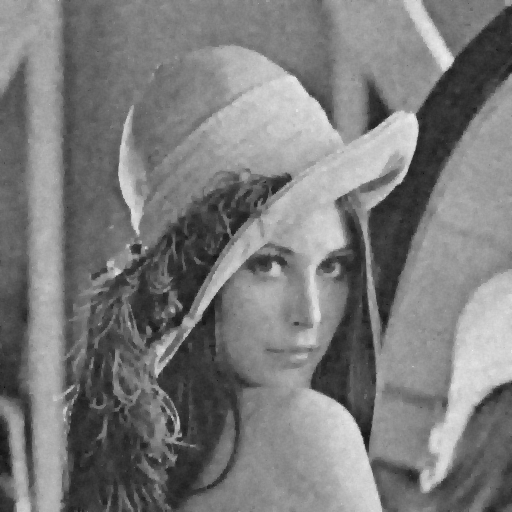
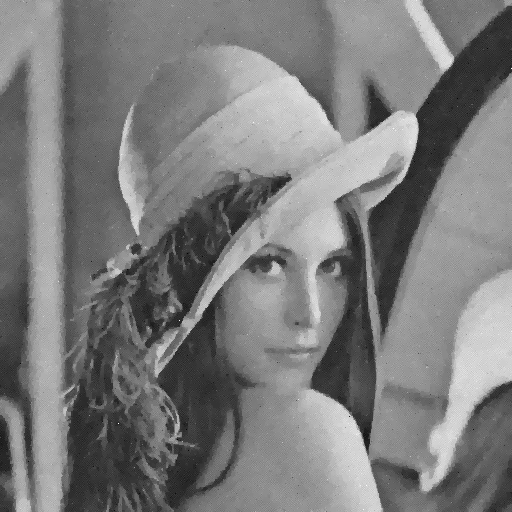
Fixed typos. Added Test images. Added parameters.

diff --git a/Net_Primal_Dual.html b/Net_Primal_Dual.html
@@ -212,7 +212,7 @@ MathJax.Hub.Config({
 
 
                 <h2 class="section-heading">Let's start by learning a simple linear operator</h2>
-                <p>In the previous general model, if we pose \( H = \lambda I_n \), \( b = -2 img_{obs}\) and
+                <p>In the previous general model, if we pose \( H = I_n \), \( b = -2 img_{obs}\) and
                     \(L : x \mapsto \sum_{(i, j) \in \mathcal{E}} \|x_i -x_j \|_1\), we can get back to the usual ROF model, as formulated in the Chambolle Pock paper:
                     $$
                     \begin{align}
@@ -221,8 +221,8 @@ MathJax.Hub.Config({
                     $$
 
 
-                    Since this model has been studied in the previous blog post, we are going to introduce the linear operator \(L : x ; w \mapsto \sum_{(i, j) \in \mathcal{E}} w_{i,j} \|x_i -x_j \|_1\).
-                    A calculation shows that \(L\) is a linear operator, and that its adjoint \(L^T\) is \(L^T = W \odot div \), \(\odot \) being the Hadamard product here.
+                    Since this model has been studied in the previous blog post, we are going to introduce the linear operator \(L : x ; w \mapsto \sum_{(i, j) \in \mathcal{E}} w_{i,j} \|x_i -x_j \|_1\), i.e \(L = W \odot \nabla\), \(\odot \) being the Hadamard product here.
+                    A calculation shows that \(L\) is a linear operator, and that its adjoint \(L^T\) is \( L^T : y \mapsto  - div(W \odot y) \).
 
                     Here are the noised, denoised and original images.
                     In this first new scenario, we are going to minimize the Mean Squared Error between the Ground Truth and the primal variable after \( n\) iterations of the primal dual algorithm:
@@ -234,7 +234,8 @@ MathJax.Hub.Config({
                     \end{align}
                     $$
 
-                     Each function was optimized for 80 steps and the trained optimizers were unrolled for 10 steps
+                     Each function was optimized for 80 steps and the trained optimizers were unrolled for 15 steps, with the following set of parameters: \(\sigma_n = 0.1, max_{it} = 15, max_{epochs}=80, \lambda_{ROF}=7.0, \theta = 0.75, \tau = 0.01 \)
+                </p>
                     <a href="#">
                         <img class="img-responsive" src="img/lena_noised.png" alt="">
                     </a>
@@ -247,10 +248,24 @@ MathJax.Hub.Config({
                         <img class="img-responsive" src="img/image_Lena512.png" alt="">
                     </a>
 
-                </p>
+                <p>If we now use the trained network on a test image, which has the same amount of noise than in the training image: </p>
+
+                    <a href="#">
+                        <img class="img-responsive" src="img/barbara_noised.png" alt="">
+                    </a>
+
+                    <a href="#">
+                        <img class="img-responsive" src="img/barbara_denoised.png" alt="">
+                    </a>
+
+                    <a href="#">
+                        <img class="img-responsive" src="img/image_Barbara512.png" alt="">
+                    </a>
+
+                <p>It seems to denoise pretty nicely!</p>
 
                 <h2 class="section-heading">Python Code Example with PyTorch</h2>
-                <p> Here is how I organized the code with PyTorch. Every function needed in the Primal Dual Net is coded as a nn.Module submodule:</p>
+                <p> Here is how I organized the code with PyTorch, with GPU support. Every function needed in the Primal Dual Net is coded as a nn.Module submodule:</p>
 
                 <pre class="prettyprint">
     <code class="language-python">
@@ -416,6 +431,7 @@ class PrimalDualNetwork(nn.Module):
         return x_tilde
     </code>
 </pre>
+                <p>And now here is what the main looks like:</p>
 <pre class="prettyprint">
 
 from __future__ import print_function
@@ -567,7 +583,7 @@ if __name__ == '__main__':
 </code>
 </pre>
 
-                <p>And now here is what the main looks like:</p>
+
                 <p>The code (and images as well) is available in its full <a href="https://github.com/louisenaud/pytorch_primal_dual">here</a>. </p>
 
                 <p>In the next part of this ticket, I will implement the general form of the aforementionned problem.</p>

diff --git a/index.html b/index.html
@@ -137,18 +137,18 @@
                     </a>
                     <p class="post-meta">Posted by <a href="contact.html">Louise</a> on July 22nd, 2017</p>
                 </div>
-                <!--<div class="post-preview">
-                    <a href="post.html">
+                <div class="post-preview">
+                    <a href="Net_Primal_Dual.html">
                         <h2 class="post-title">
-                            Science has not yet mastered prophecy
+                            Let's have -a little- fun with the ROF model!
                         </h2>
                         <h3 class="post-subtitle">
-                            We predict too much for the next year and yet far too little for the next ten.
+                            How to view this framework from a Recurrent Neural Net perspective.
                         </h3>
                     </a>
                     <p class="post-meta">Posted by <a href="#">Start Bootstrap</a> on August 24, 2014</p>
                 </div>
-                <hr>
+                <!--<hr>
                 <div class="post-preview">
                     <a href="post.html">
                         <h2 class="post-title">
